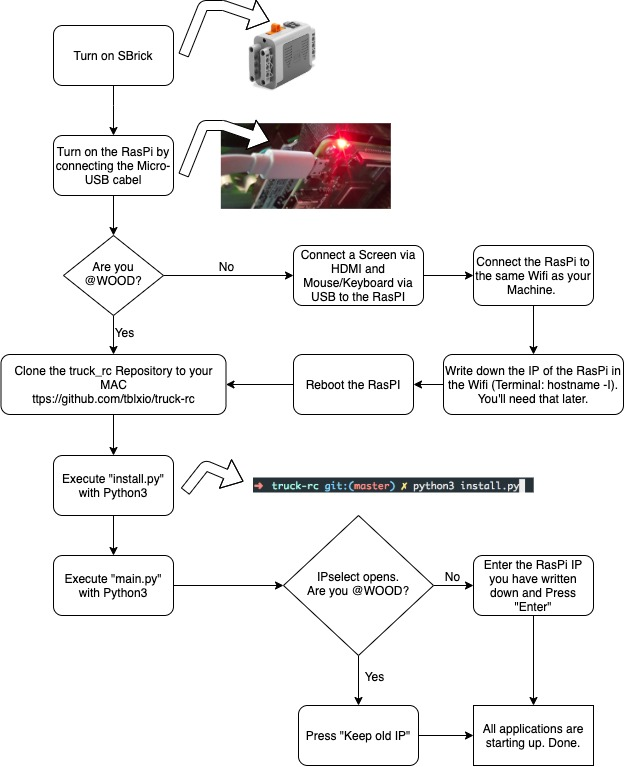
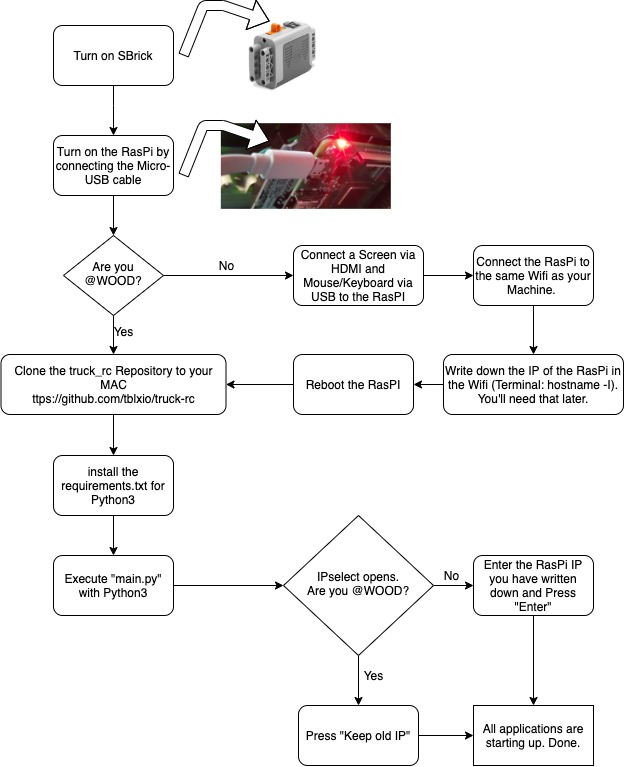
added new Flowchart

diff --git a/README.md b/README.md
@@ -13,6 +13,9 @@
 # Plug&Play Guide for tb.lx'ers
 ![Flowchart](/Img/FlowChart.jpg)
 
+    If the camera does not open because of permission issues, just open in a new browser tab '192.168.13.106:8000'
+    Or the same with a different IP outside of woods.
+
 # Requirements
     a variety of different libraries is used to receive, save, process, transmit and visualise the data.
     The used libraries will be listed here. You can install them on your own for Python3 or just execute 
@@ -64,6 +67,3 @@
         - Execute the main.py in the top directory
     
     -> DONE
-
-# Documentation
-    For further Documentation about the individual scrips look into the "Documentation" folder
